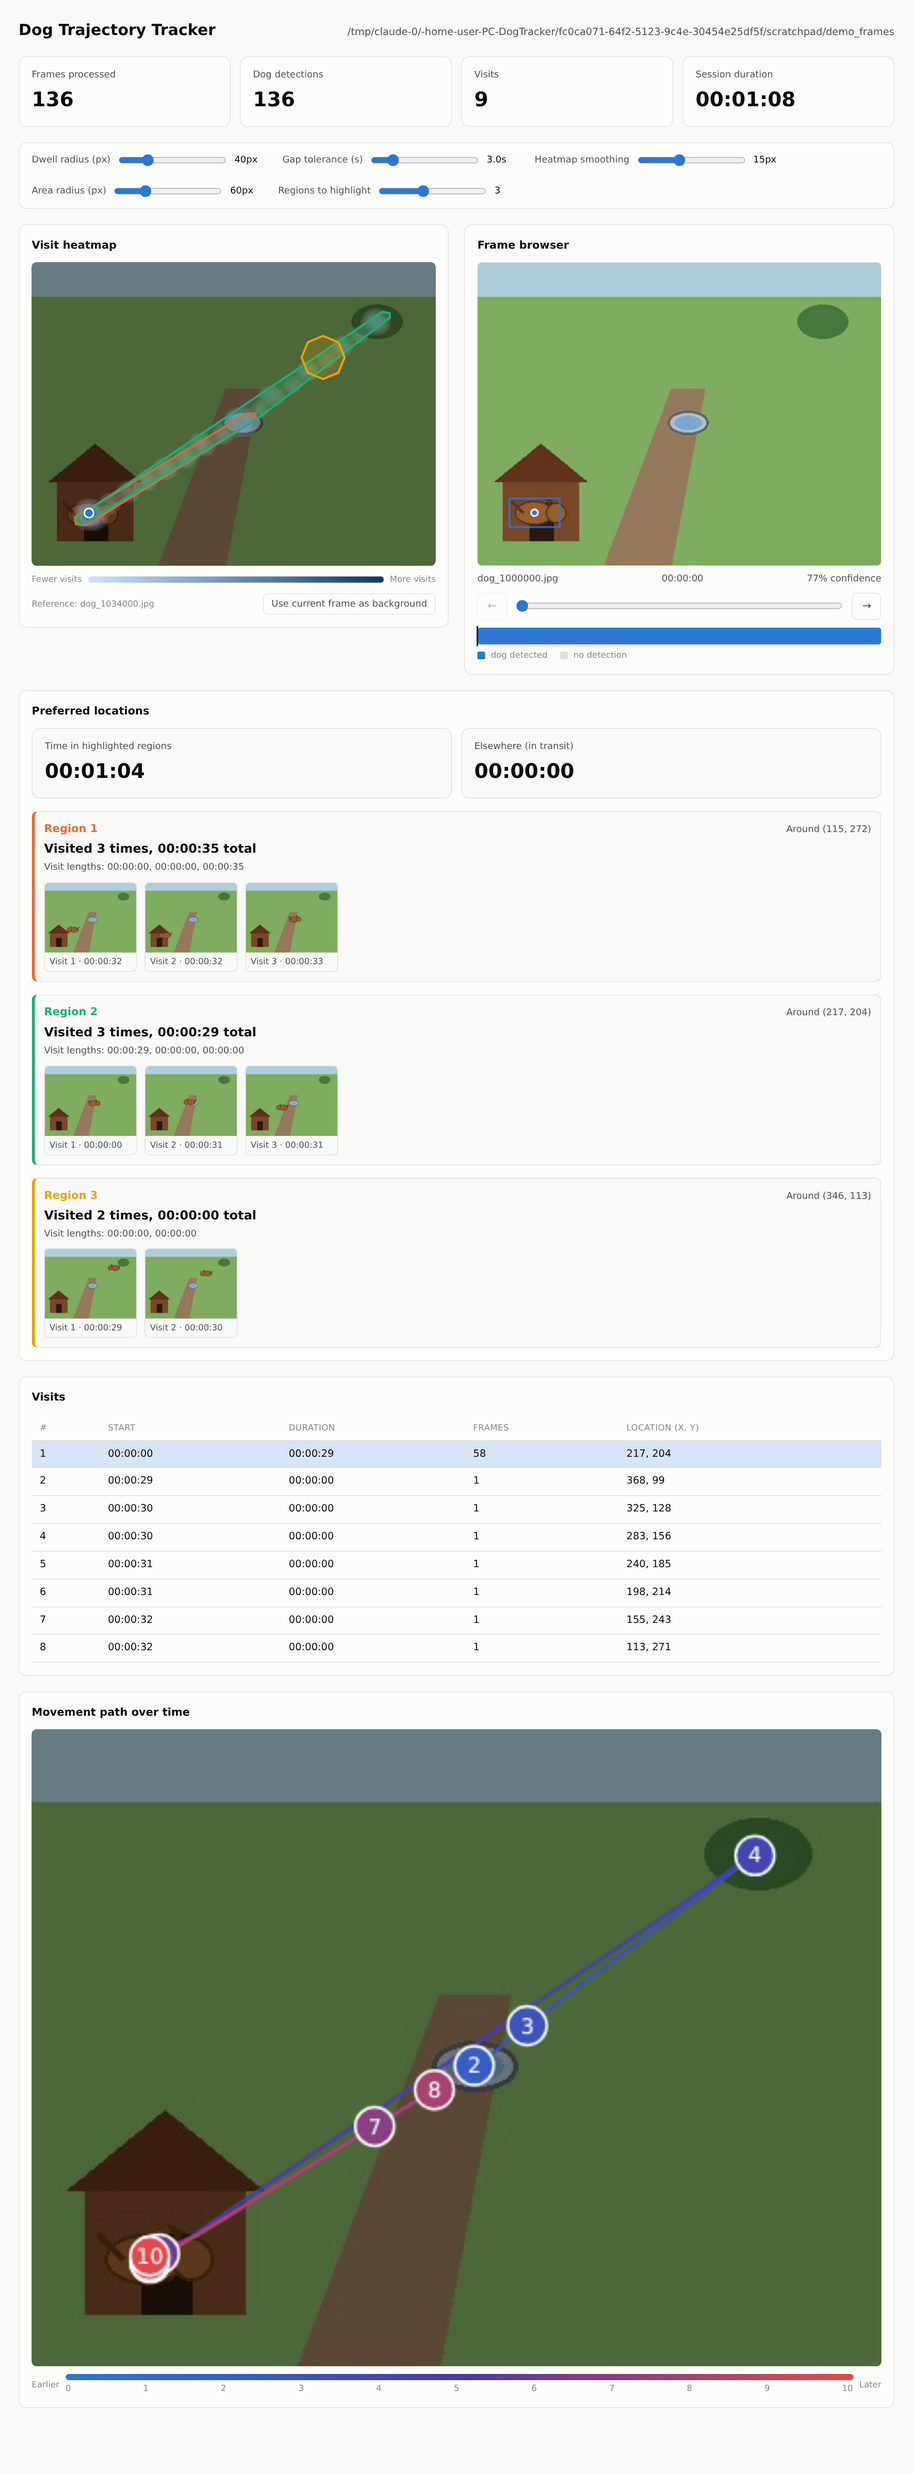
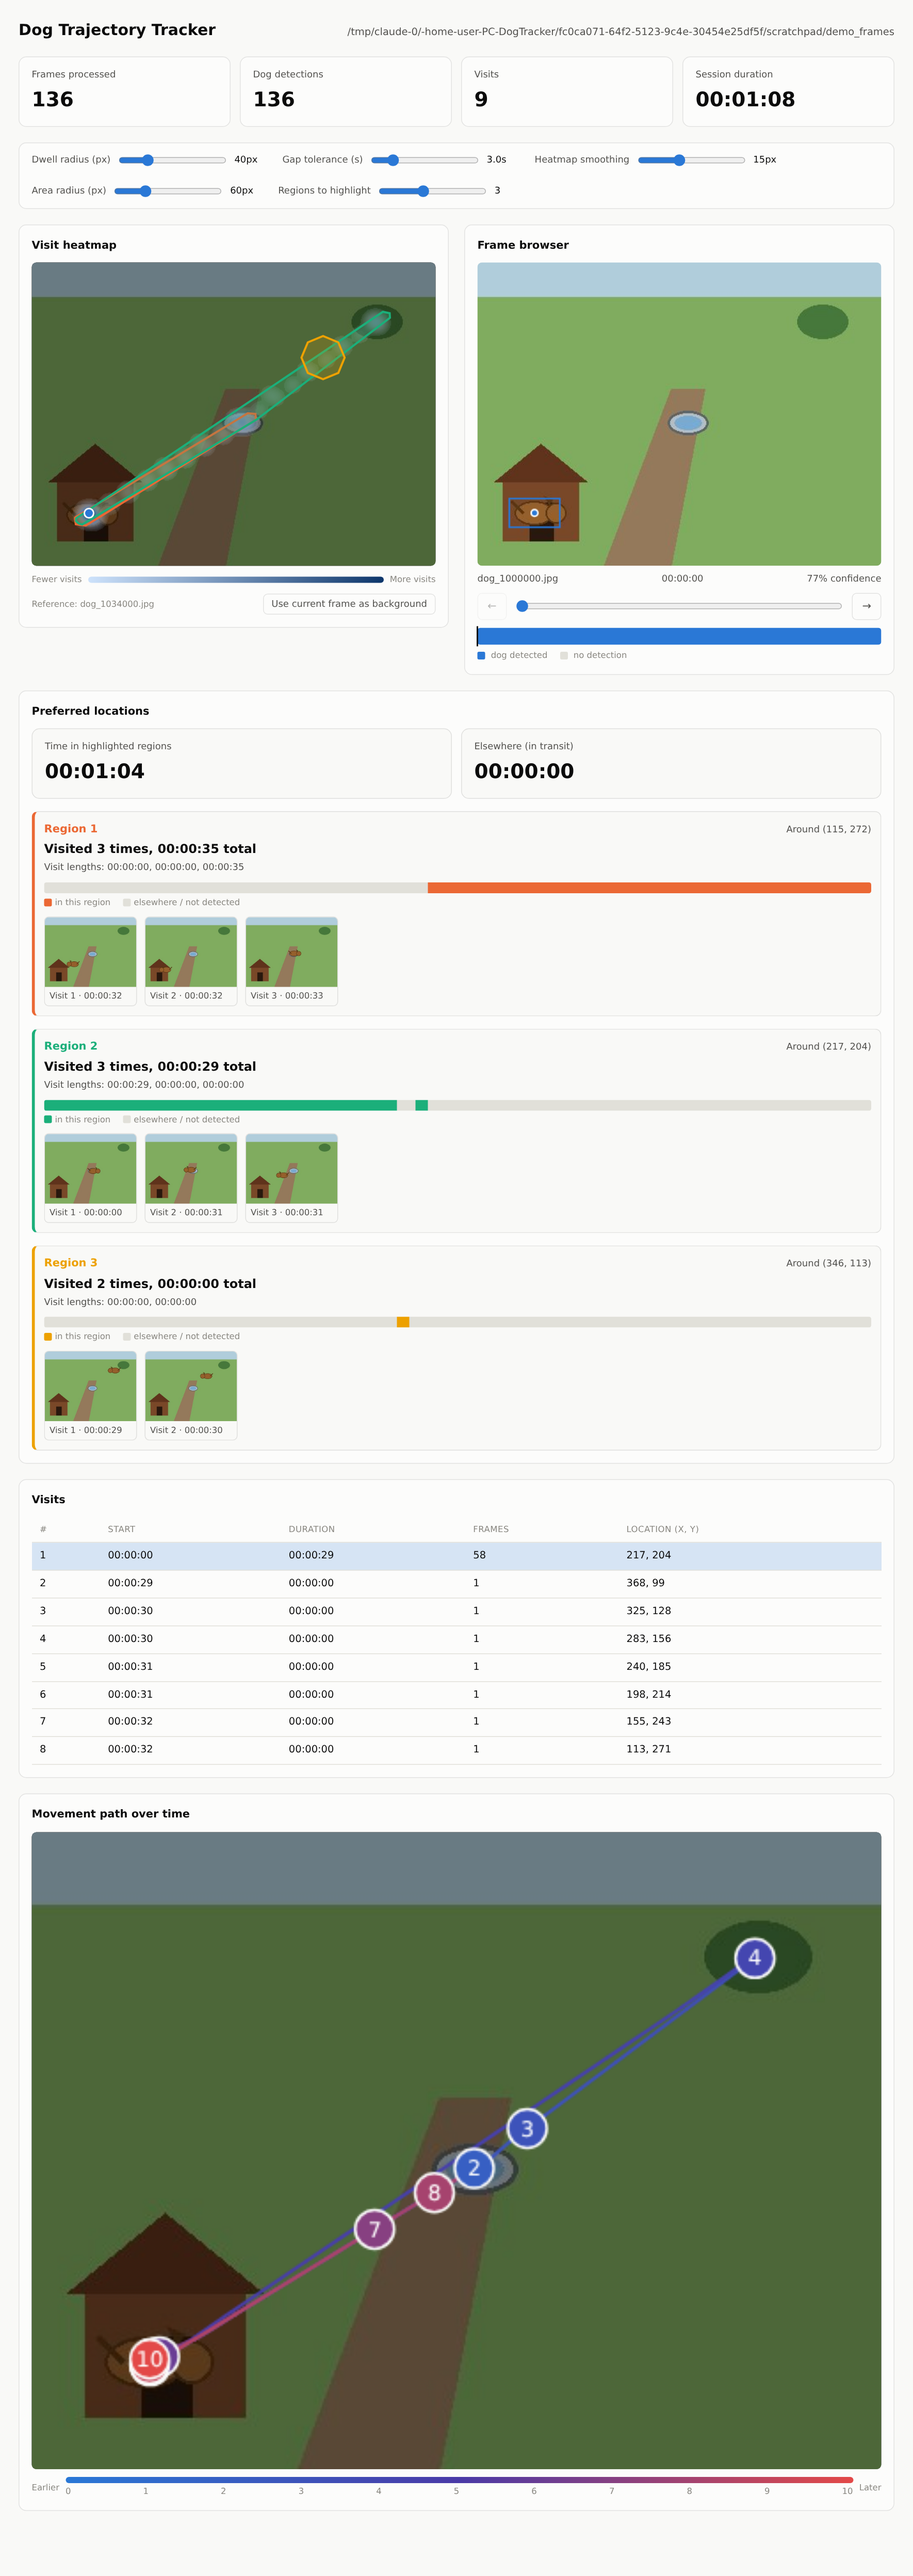
Add a per-region presence timeline to each preferred-location card
Each region card gets its own clickable ruler (same visual language as the
main detection-presence ruler under the frame browser), showing exactly
when across the whole session the dog was in that specific region --
colored in the region's own color -- versus everywhere else. Refactored the
shared rendering into renderPresenceRuler() so both rulers draw the same way.

diff --git a/dogtracker_pc/static/app.js b/dogtracker_pc/static/app.js
@@ -9,6 +9,7 @@
     frameIndexByFilename: new Map(),
     visits: [],
     currentIndex: 0,
+    currentHighlightedAreas: [],
   };
 
   const el = (id) => document.getElementById(id);
@@ -232,44 +233,76 @@
   }
 
   // ======================================================
-  // Detection-presence ruler: a clickable timeline showing which parts of
-  // the whole session had a dog detected (colored) vs not (empty), plus a
-  // marker for the currently-browsed frame. The coloring only needs
-  // recomputing when the data loads or the ruler resizes; the marker moves
-  // far more often, so it's a separate cheap overlay instead of a redraw.
+  // Presence ruler: a clickable timeline over the whole session showing
+  // which parts had some condition true (colored) vs not (empty). Used both
+  // for "a dog was detected at all" (the main ruler) and, per region, "the
+  // dog was in this specific region" -- same rendering, different predicate
+  // and color.
   // ======================================================
-  function renderDetectionRulerBackground() {
-    const canvas = el("detectionRuler");
+  function renderPresenceRuler(canvas, isPresentAtIndex, presentColorCss, height) {
     const width = Math.max(Math.round(canvas.getBoundingClientRect().width), 1);
-    const height = 22;
     canvas.width = width;
     canvas.height = height;
     const ctx = canvas.getContext("2d");
 
-    const styles = getComputedStyle(document.body);
-    const emptyColor = styles.getPropertyValue("--gridline").trim() || "#e1e0d9";
-    const accentColor = styles.getPropertyValue("--accent").trim() || "#2a78d6";
-
+    const emptyColor = getComputedStyle(document.body).getPropertyValue("--gridline").trim() || "#e1e0d9";
     ctx.fillStyle = emptyColor;
     ctx.fillRect(0, 0, width, height);
 
     const total = state.frames.length;
     if (total === 0) return;
 
-    ctx.fillStyle = accentColor;
+    ctx.fillStyle = presentColorCss;
     for (let x = 0; x < width; x++) {
       const startIdx = Math.floor((x / width) * total);
       const endIdx = Math.max(startIdx + 1, Math.floor(((x + 1) / width) * total));
-      let hasDetection = false;
+      let present = false;
       for (let i = startIdx; i < endIdx && i < total; i++) {
-        if (state.detectionByFilename.has(state.frames[i].filename)) {
-          hasDetection = true;
+        if (isPresentAtIndex(i)) {
+          present = true;
           break;
         }
       }
-      if (hasDetection) {
+      if (present) {
         ctx.fillRect(x, 0, 1, height);
       }
+    }
+  }
+
+  // The coloring only needs recomputing when the data loads or the ruler
+  // resizes; the current-frame marker moves far more often, so it's a
+  // separate cheap overlay instead of a redraw (see updateRulerMarker).
+  function renderDetectionRulerBackground() {
+    const accentColor = getComputedStyle(document.body).getPropertyValue("--accent").trim() || "#2a78d6";
+    renderPresenceRuler(
+      el("detectionRuler"),
+      (i) => state.detectionByFilename.has(state.frames[i].filename),
+      accentColor,
+      22
+    );
+  }
+
+  // Per-region presence ruler: which parts of the whole session the dog
+  // spent inside this specific region, using the region's own visit time
+  // ranges (start_ts .. start_ts + duration_ms) rather than exact frames,
+  // since that's what /api/areas already reports per visit.
+  function renderAreaRuler(canvas, area) {
+    const intervals = area.visits.map((v) => [v.start_ts, v.start_ts + v.duration_ms]);
+    const isInRegion = (i) => {
+      const ts = state.frames[i].timestamp_ms;
+      return intervals.some(([start, end]) => ts >= start && ts <= end);
+    };
+    const styles = getComputedStyle(document.body);
+    const slot = ((area.rank - 1) % REGION_COLOR_COUNT) + 1;
+    const color = styles.getPropertyValue(`--region-${slot}`).trim() || "#2a78d6";
+    renderPresenceRuler(canvas, isInRegion, color, 14);
+  }
+
+  function redrawAreaRulers() {
+    const cards = el("areaList").children;
+    for (let i = 0; i < cards.length && i < state.currentHighlightedAreas.length; i++) {
+      const canvas = cards[i].querySelector(".area-ruler");
+      if (canvas) renderAreaRuler(canvas, state.currentHighlightedAreas[i]);
     }
   }
 
@@ -288,7 +321,13 @@
       setCurrentIndex(index);
     });
 
-    window.addEventListener("resize", debounce(renderDetectionRulerBackground, 150));
+    window.addEventListener(
+      "resize",
+      debounce(() => {
+        renderDetectionRulerBackground();
+        redrawAreaRulers();
+      }, 150)
+    );
   }
 
   function setupHeatmapInteraction() {
@@ -439,6 +478,35 @@
     lengths.className = "area-card-lengths";
     lengths.textContent = `Visit lengths: ${area.visits.map((v) => formatElapsed(v.duration_ms)).join(", ")}`;
 
+    // Mini presence ruler -- same idea as the main detection-presence ruler
+    // under the frame browser, scoped to just this region: colored (in this
+    // region's own color) where the dog was here, empty everywhere else
+    // across the whole session timeline. Drawn later, once the canvas is
+    // actually in the DOM and has a real width (see redrawAreaRulers).
+    const rulerWrap = document.createElement("div");
+    rulerWrap.className = "area-ruler-wrap";
+    const rulerCanvas = document.createElement("canvas");
+    rulerCanvas.className = "area-ruler";
+    rulerCanvas.addEventListener("click", (event) => {
+      const rect = rulerCanvas.getBoundingClientRect();
+      const frac = (event.clientX - rect.left) / rect.width;
+      setCurrentIndex(Math.round(frac * (state.frames.length - 1)));
+    });
+    rulerWrap.appendChild(rulerCanvas);
+
+    const rulerLegend = document.createElement("div");
+    rulerLegend.className = "ruler-legend";
+    const onSwatch = document.createElement("span");
+    onSwatch.className = "swatch";
+    onSwatch.style.background = regionColorVar(area.rank);
+    const onLabel = document.createElement("span");
+    onLabel.append(onSwatch, document.createTextNode("in this region"));
+    const offSwatch = document.createElement("span");
+    offSwatch.className = "swatch swatch-off";
+    const offLabel = document.createElement("span");
+    offLabel.append(offSwatch, document.createTextNode("elsewhere / not detected"));
+    rulerLegend.append(onLabel, offLabel);
+
     const strip = document.createElement("div");
     strip.className = "thumb-strip";
     strip.append(
@@ -451,7 +519,7 @@
       )
     );
 
-    card.append(header, headline, lengths, strip);
+    card.append(header, headline, lengths, rulerWrap, rulerLegend, strip);
     return card;
   }
 
@@ -459,6 +527,7 @@
     const card = el("areasCard");
     if (data.areas.length === 0) {
       card.hidden = true;
+      state.currentHighlightedAreas = [];
       renderAreaOverlays([]);
       return;
     }
@@ -471,7 +540,9 @@
       statTile("Elsewhere (in transit)", formatElapsed(data.elsewhere_duration_ms))
     );
 
+    state.currentHighlightedAreas = highlighted;
     el("areaList").replaceChildren(...highlighted.map(areaCard));
+    redrawAreaRulers();
     renderAreaOverlays(data.areas);
   }
 

diff --git a/dogtracker_pc/static/style.css b/dogtracker_pc/static/style.css
@@ -390,6 +390,23 @@ header.top .folder {
   padding-bottom: 0;
 }
 
+.area-ruler-wrap {
+  margin: 8px 0 4px;
+}
+
+.area-ruler {
+  width: 100%;
+  height: 14px;
+  display: block;
+  border-radius: 3px;
+  cursor: pointer;
+}
+
+.area-card .ruler-legend {
+  margin-top: 4px;
+  margin-bottom: 10px;
+}
+
 .thumb-strip {
   display: flex;
   gap: 10px;

diff --git a/README.md b/README.md
@@ -23,23 +23,27 @@ footage -- generated for illustration purposes, see below.)*
 - **Preferred locations** -- the dog's handful of regular spots (e.g. a
   doghouse, a water bowl), each outlined as its own colored **convex hull**
   directly on the heatmap image (one color per region, matching that
-  region's heading below). Per region: how many times it was visited, the
-  length of every individual visit, and the total time spent there. A
-  summary line splits total tracked time into "in a highlighted region" vs.
+  region's heading below, purely visual -- it doesn't block clicking on the
+  heatmap underneath). Per region: how many times it was visited, the length
+  of every individual visit, the total time spent there, and its own
+  clickable **presence timeline** (in the region's color) showing exactly
+  when across the whole session the dog was there vs elsewhere. A summary
+  line splits total tracked time into "in a highlighted region" vs.
   "elsewhere (in transit)" -- time spent moving between spots rather than
   dwelling in one of them.
 - **Movement path over time** -- a smooth spline through every detected
   position in chronological order, colored gradually from one color (earlier)
-  to another (later), so the dog's actual route -- not just where it
-  stopped -- is visible at a glance.
+  to another (later) by elapsed time, with numbered markers at every 10% of
+  the session so the dog's actual route -- not just where it stopped -- is
+  readable as a timeline.
 - **Frame browser** scrubs through every recorded frame, not just the ones
   with a detection -- frames with no dog show "No detection" instead of a
   box, so you can review the full sequence for continuity. A clickable
   **detection-presence ruler** below the scrubber shows at a glance which
   parts of the session had a dog detected (colored) vs not (empty).
 - **Click-to-jump** everywhere: click a point on the heatmap, a row in the
-  visits table, a region's outline, or a thumbnail in a region's visit strip,
-  and the frame browser jumps straight to it.
+  visits table, a region's presence timeline, or a thumbnail in a region's
+  visit strip, and the frame browser jumps straight to it.
 - **Adjustable thresholds** (dwell radius, gap tolerance, area radius,
   heatmap smoothing, how many regions to highlight) recompute the
   visits/regions/heatmap live.
